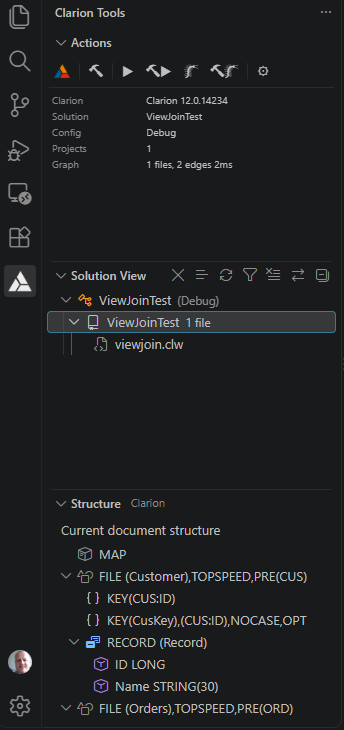
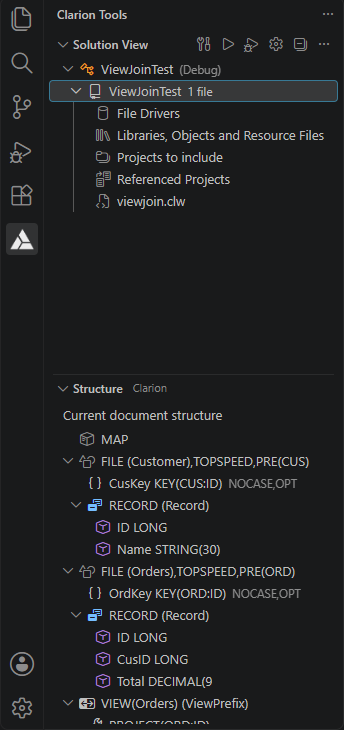
docs(readme): screenshots for the 1.0.10 UI
solution-view.png showed the Actions pane, which #794 retired; it now
shows the Solution View's title-bar buttons and the project's IDE folders
(#803). Two new shots: the FILE keyword's attributes card (#746) and the
Project Properties page (#792), with a Solutions and builds bullet for the
property pages. hover-file.png and diagnostic-view-field.png were re-staged
and still match; quick-fix-create-routine.png is unchanged.

diff --git a/README.md b/README.md
@@ -29,6 +29,8 @@ Works in the current file with no solution open; opens out across files when a s
 - In a solution with several projects, a name is resolved through the redirection of the project that compiles the file you are in.
 - [Navigation in detail](docs/features/navigation.md)
 
+![Hover on the FILE keyword of Orders: the attributes it sets (DRIVER, PRE, CREATE, THREAD), the flags it accepts and those that take a value, each a link that adds or removes it](docs/images/hover-file-attributes.png)
+
 ### IntelliSense and signature help
 
 - Member completion after `SELF.`, `PARENT.`, `MyVar.` or `ClassName.`, walking inheritance and honouring PRIVATE and PROTECTED.
@@ -63,9 +65,12 @@ On Ctrl+.: Surround With, Negate Condition, Flip IF/ELSE, Introduce EQUATE, and 
 - Build from the Solution View with live output, projects ordered by dependency, and each build states what it is building, in which configuration, and the MSBuild command line. A solution that loads in a degraded state says so instead of silently returning nothing.
 - The Clarion version is remembered per solution and can be changed while it is loaded: the editor and the build follow the new install at once, without a reload. A version the properties file no longer registers is reported rather than used.
 - Settings are read and written in one place, so a pick sticks in a multi-root workspace; settings an earlier version wrote into a folder, which override the `.code-workspace` file, are reported with an offer to remove them.
+- Project Properties and Solution Properties show a project's and a solution's options as the Clarion IDE's pages do; New Solution builds projects from the programs already in a folder.
 - [Solution management in detail](docs/features/solution-management.md)
 
-<img src="docs/images/solution-view.png" width="344" alt="The Clarion Tools side bar: Actions with the selected Clarion version and configuration, the Solution View with the loaded solution and its project, and the Structure view of the open file">
+<img src="docs/images/solution-view.png" width="344" alt="The Clarion Tools side bar: the Solution View with Build, Run, Debug and Solution Properties on its title bar, the loaded solution and its project with the IDE's folders (File Drivers; Libraries, Objects and Resource Files; Projects to include; Referenced Projects), and the Structure view of the open file">
+
+![Project Properties for ViewJoinTest: the Application page with its target name, output path, output type, link mode and icon, each marked as applying to all configurations or not set](docs/images/project-properties.png)
 
 ### Editing and syntax
 
